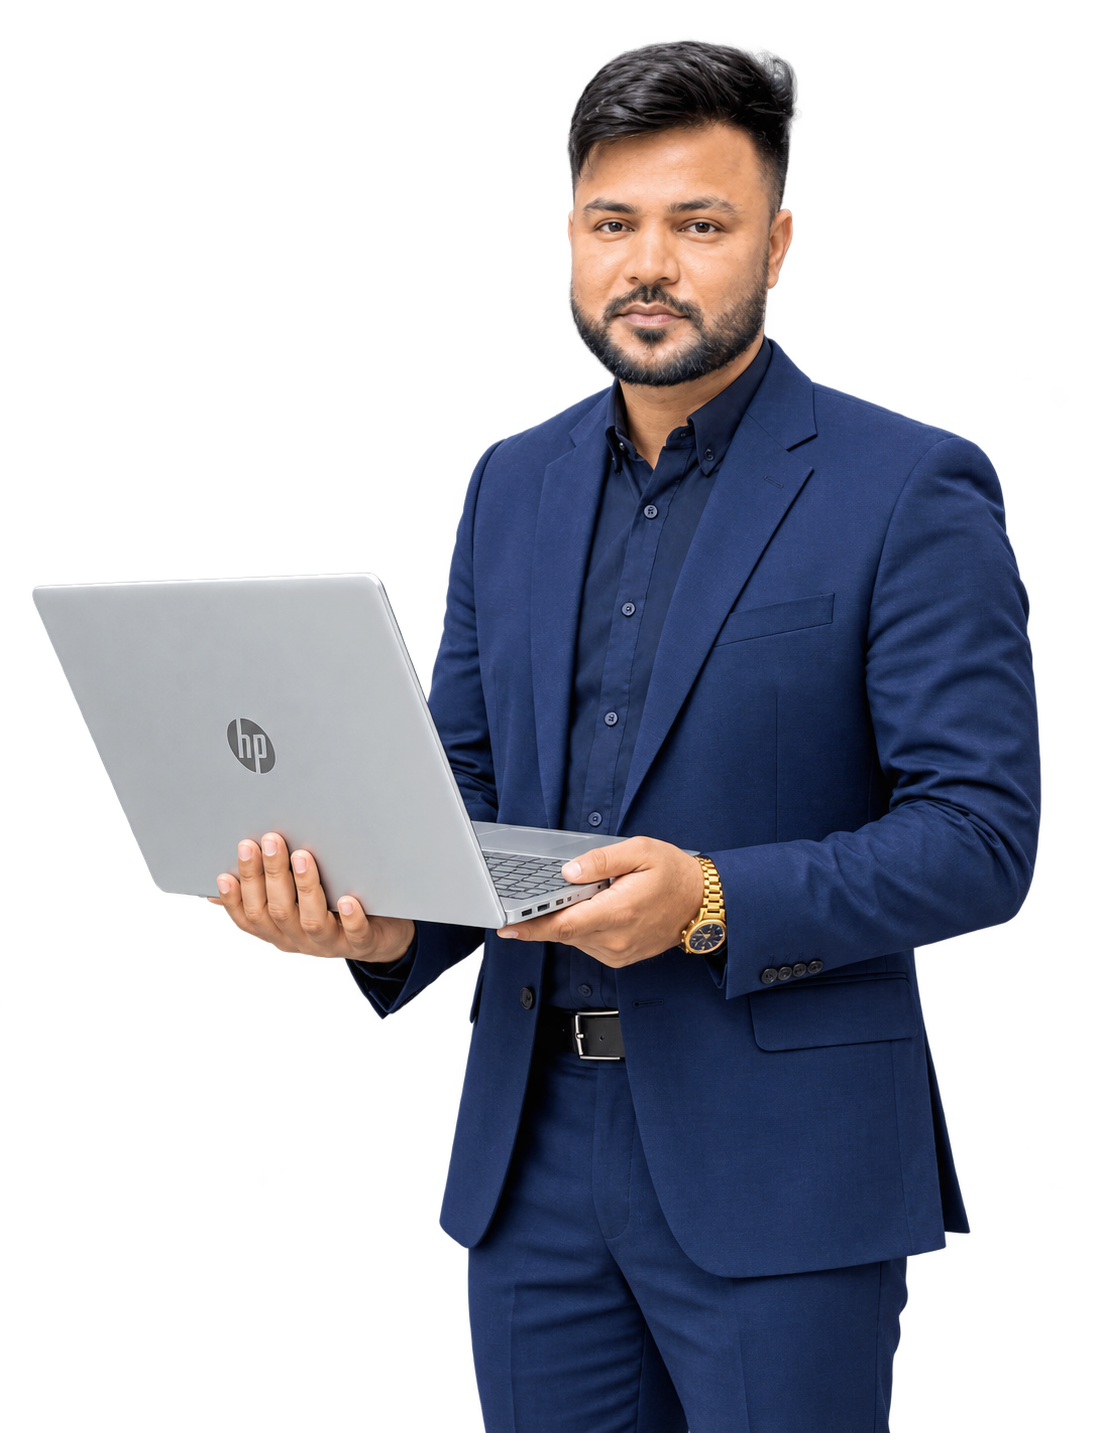
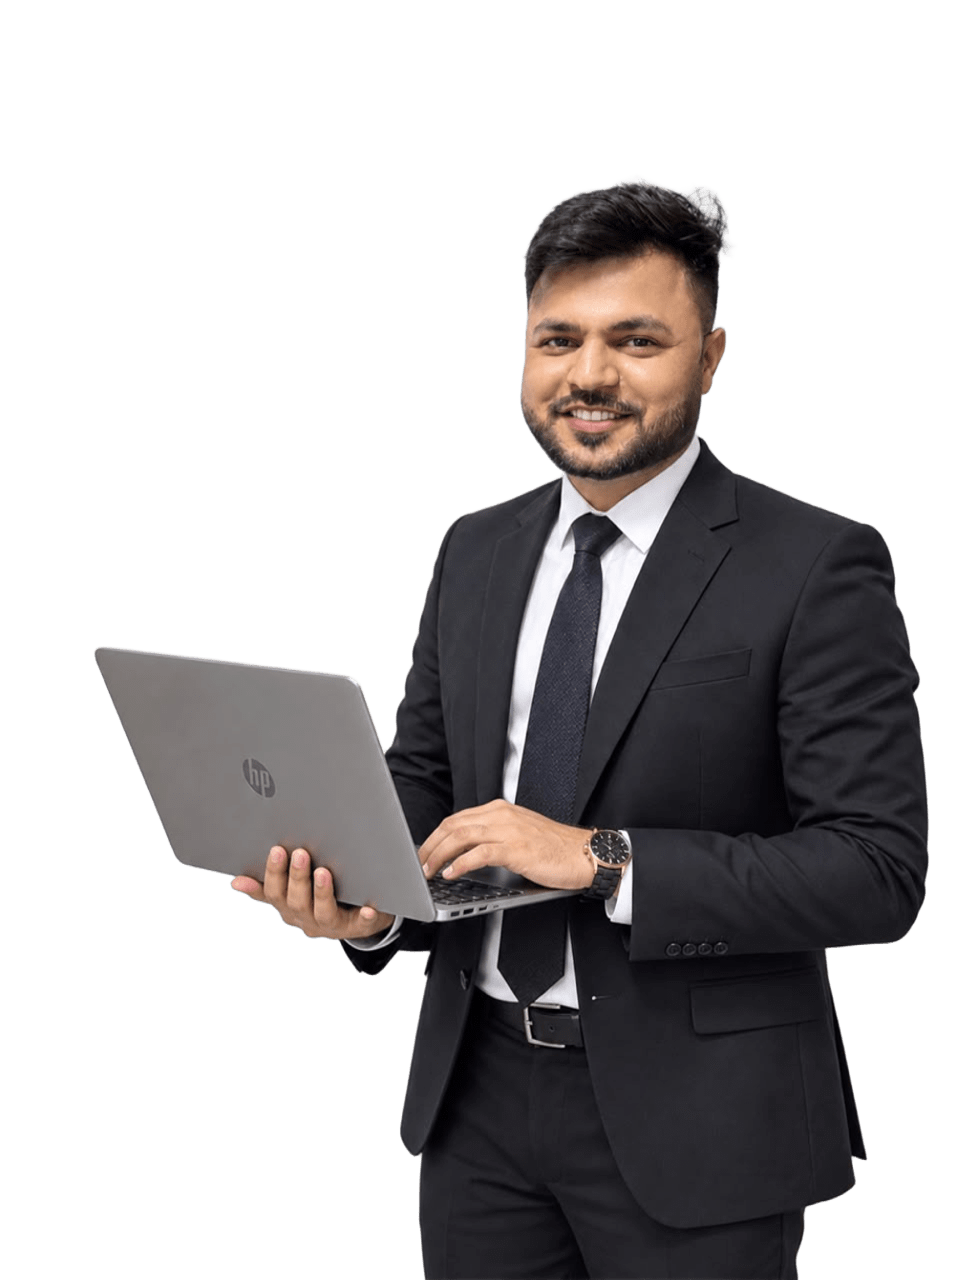
144

diff --git a/style.css b/style.css
@@ -990,7 +990,13 @@ h1, h2, h3, h4, h5, h6 {
     gap: 10px;
 }
 
-.floating-contact-wrapper.right { right: 30px; }
+.floating-contact-wrapper.right { 
+        position: fixed;
+        right: 10px;
+        bottom: 20px;
+     }
+
+
 .floating-contact-wrapper.left  { left: 30px; }
 
 .floating-contact-btn {
